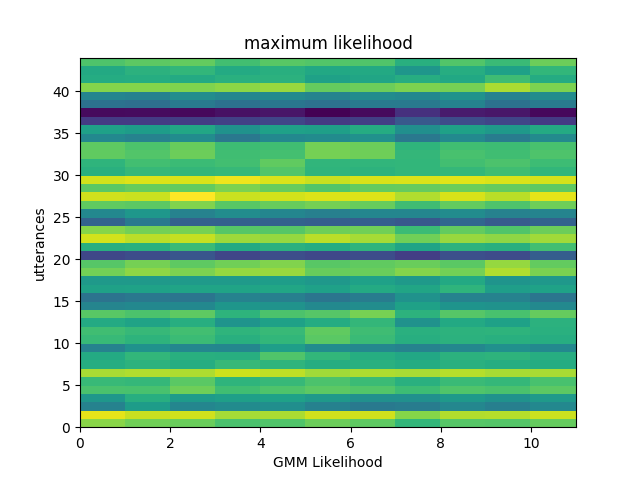
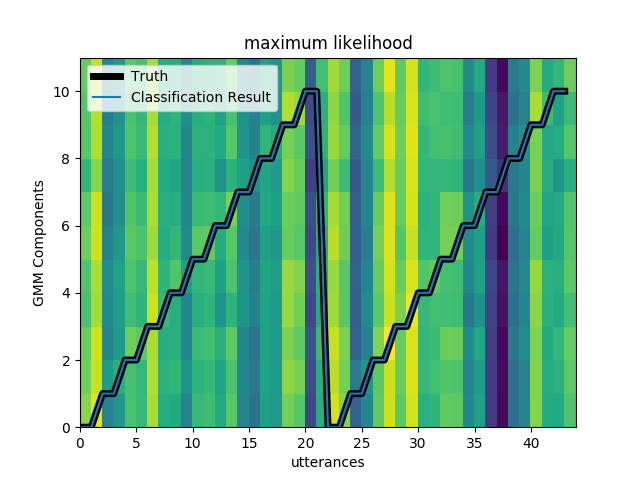
final commit for Lab 2

diff --git a/lab2/test.py b/lab2/test.py
@@ -21,73 +21,63 @@ for digit in prondict.keys():
     modellist[digit] = ['sil'] + prondict[digit] + ['sil']
 
 #Generate HMM for the word zero
-hmmTest = proto2.concatHMMs(phoneHMMs,modellist['o'])
+hmmTest = proto2.concatHMMs(phoneHMMs,modellist['z'])
 log_startprob = np.log(hmmTest['startprob'])
 log_trans = np.log(hmmTest['transmat'])[:-1, :-1]
 
 
-loglikelihood = tools2.log_multivariate_normal_density_diag(lmfcc_example, hmmTest['means'], hmmTest['covars'])
+proto2.baum_welch(lmfcc, hmmTest['means'], hmmTest['covars'], log_startprob, log_trans, example_data)
 
-#Forward alogithm
-ref = example_data['logalpha']
-log_alpha = proto2.forward(loglikelihood, log_startprob ,log_trans, ref)
+#loglikelihood = tools2.log_multivariate_normal_density_diag(lmfcc_example, hmmTest['means'], hmmTest['covars'])
 
-target = log_alpha - ref
-diffa = log_alpha - example_data['logalpha']
-
-
-proto2.baum_welch(lmfcc_example, hmmTest['means'], hmmTest['covars'], log_startprob, log_trans, example_data)
-
-loglikelihood = tools2.log_multivariate_normal_density_diag(lmfcc_example, hmmTest['means'], hmmTest['covars'])
-
-#Forward alogithm
-log_alpha = proto2.forward_mat(loglikelihood, log_startprob ,log_trans)
-diffa = log_alpha - example_data['logalpha']
-
-#Viterbi alogithm
-viter = proto2.viterbi(loglikelihood, log_startprob ,log_trans)
-diffv1 = viter[0] - example_data['vloglik'][0]
-diffv2 = viter[1] - example_data['vloglik'][1]
-
-
-#Backward alogithm
-log_beta = proto2.backward(loglikelihood, log_startprob ,log_trans)
-diffb = log_beta - example_data['logbeta']
-
-#State Posteriors
-log_gamma = proto2.statePosteriors(example_data['logalpha'],example_data['logbeta'])
-diffg = log_gamma - example_data['loggamma']
-
-log_gamma = proto2.updateMeanAndVar(lmfcc_example, example_data['loggamma'])
-
-
-
-#Print execution time
-print('Execution done in '+str(round((timer()-startTime),2))+" seconds")
-
-#Plot graphs
-plt.figure(figsize=(20,10))
-ax = plt.subplot(1, 1, 1)
-ax.set_title('lmfcc')
-ax.set_yticklabels([])
-ax.set_xticklabels([])
-plt.pcolormesh(np.transpose(lmfcc_example))
-plt.show()
-
-plt.figure(figsize=(20,10))
-ax = plt.subplot(1, 1, 1)
-plt.title('lmfcc')
-ax.set_yticklabels([])
-ax.set_xticklabels([])
-plt.pcolormesh(np.transpose(lmfcc_example))
-plt.show()
-
-plt.figure(figsize=(20,10))
-ax = plt.subplot(1, 1, 1)
-ax.set_title('log alpha')
-ax.set_yticklabels([])
-ax.set_xticklabels([])
-plt.pcolormesh(np.transpose(log_alpha))
-plt.show()
+# #Forward alogithm
+# log_alpha = proto2.forward_mat(loglikelihood, log_startprob ,log_trans)
+# diffa = log_alpha - example_data['logalpha']
+#
+# #Viterbi alogithm
+# viter = proto2.viterbi(loglikelihood, log_startprob ,log_trans)
+# diffv1 = viter[0] - example_data['vloglik'][0]
+# diffv2 = viter[1] - example_data['vloglik'][1]
+#
+#
+# #Backward alogithm
+# log_beta = proto2.backward(loglikelihood, log_startprob ,log_trans)
+# diffb = log_beta - example_data['logbeta']
+#
+# #State Posteriors
+# log_gamma = proto2.statePosteriors(example_data['logalpha'],example_data['logbeta'])
+# diffg = log_gamma - example_data['loggamma']
+#
+# log_gamma = proto2.updateMeanAndVar(lmfcc_example, example_data['loggamma'])
+#
+#
+#
+# #Print execution time
+# print('Execution done in '+str(round((timer()-startTime),2))+" seconds")
+#
+# #Plot graphs
+# plt.figure(figsize=(20,10))
+# ax = plt.subplot(1, 1, 1)
+# ax.set_title('lmfcc')
+# ax.set_yticklabels([])
+# ax.set_xticklabels([])
+# plt.pcolormesh(np.transpose(lmfcc_example))
+# plt.show()
+#
+# plt.figure(figsize=(20,10))
+# ax = plt.subplot(1, 1, 1)
+# plt.title('lmfcc')
+# ax.set_yticklabels([])
+# ax.set_xticklabels([])
+# plt.pcolormesh(np.transpose(lmfcc_example))
+# plt.show()
+#
+# plt.figure(figsize=(20,10))
+# ax = plt.subplot(1, 1, 1)
+# ax.set_title('log alpha')
+# ax.set_yticklabels([])
+# ax.set_xticklabels([])
+# plt.pcolormesh(np.transpose(log_alpha))
+# plt.show()
 
 

diff --git a/lab2/proto2.py b/lab2/proto2.py
@@ -217,24 +217,22 @@ def updateMeanAndVar(X, log_gamma, varianceFloor=5.0):
     return means, covars
 
 
-def baum_welch(lmfcc, init_means, init_covars,  log_startprob, log_trans,example_data, max_iter=200, stop_threshold=1.0):
+def baum_welch(lmfcc, init_means, init_covars,  log_startprob, log_trans, example_data, max_iter=20, stop_threshold=1.0):
     means = init_means
     covars = init_covars
+    log_alpha_lik = -10000000000000
     for i in range(max_iter):
         loglikelihood = log_multivariate_normal_density_diag(lmfcc, means, covars)
-        print('loglikelihood', np.mean(loglikelihood))
         log_alpha = forward(loglikelihood, log_startprob, log_trans)
         log_beta = backward(loglikelihood, log_startprob, log_trans)
         log_gamma = statePosteriors(log_alpha, log_beta)
-        means_, covars_ = updateMeanAndVar(lmfcc, log_gamma)
-        diff = means-means_
+        means, covars = updateMeanAndVar(lmfcc, log_gamma)
 
-        # print('old means', np.mean(means))
-        # print('new means',np.mean(means_))
-        # print('old covars', np.mean(covars))
-        # print('new covars', np.mean(covars_))
-        means = means_
-        #covars = covars_
+        _new_lik = logsumexp(log_alpha[-1])
+        if (_new_lik - log_alpha_lik) < stop_threshold:
+            break
+        log_alpha_lik = _new_lik
+        print('iter ',i,' likelihood', np.mean(log_alpha_lik))
 
     print("Baum Welch Done!")
 

diff --git a/lab2/test_bm.py b/lab2/test_bm.py
@@ -1,0 +1,28 @@
+import lab2.proto2 as proto2
+import lab2.tools2 as tools2
+from lab2.prondict import prondict
+import numpy as np
+
+N = 15 # number of observations
+D = 2 # muber of dimensions
+M = 3 # number of states
+
+# define extreme posteriors:
+gamma = np.zeros((N, M))
+gamma[:4,0] = 1.0 # first 4 observations belong to state 0
+gamma[4:10,1] = 1.0 # next 6 observations belong to state 1
+gamma[10:,2] = 1.0 # the remaining observations belong to state 2
+
+# generate some data
+np.random.seed(100)
+X = np.random.rand(N,D)
+
+means, covars = proto2.updateMeanAndVar(X, np.log(gamma), varianceFloor=0.0)
+
+# check differences with standard mean and var:
+d0 = means[0,:] - np.mean(X[:4],  axis=0)
+d1 = means[1,:] - np.mean(X[4:10],axis=0)
+d2 = means[2,:] - np.mean(X[10:], axis=0)
+d3 = covars[0,:] - np.var(X[:4],  axis=0)
+d4 = covars[1,:] - np.var(X[4:10],axis=0)
+d5 = covars[2,:] - np.var(X[10:], axis=0)

diff --git a/lab2/plot.py b/lab2/plot.py
@@ -2,9 +2,16 @@ import numpy as np
 import matplotlib.pyplot as plt
 
 m = np.load('saved_data.npy')
-plt.pcolormesh(m)
+label = np.load('classification_label.npy')
+result = np.load('classification_result.npy')
+plt.pcolormesh(m.T)
 plt.title('maximum likelihood')
-plt.ylabel('utterances')
-plt.xlabel('GMM Components')
+plt.xlabel('utterances')
+plt.ylabel('GMM Components')
+
+
+plt.plot(label, label='Truth', linewidth=5, c='black')
+plt.plot(result, label='Classification Result')
+plt.legend()
 plt.savefig('ML.png')
 plt.show()

diff --git a/lab2/maximumlikelihood.py b/lab2/maximumlikelihood.py
@@ -46,7 +46,8 @@ for i, utterance in enumerate(data):
 
 print(classification)
 print(ground_truth)
-
+np.save('classification_label', ground_truth)
+np.save('classification_result', classification)
 np.save('saved_data', loglik)
 
 print('hello')
